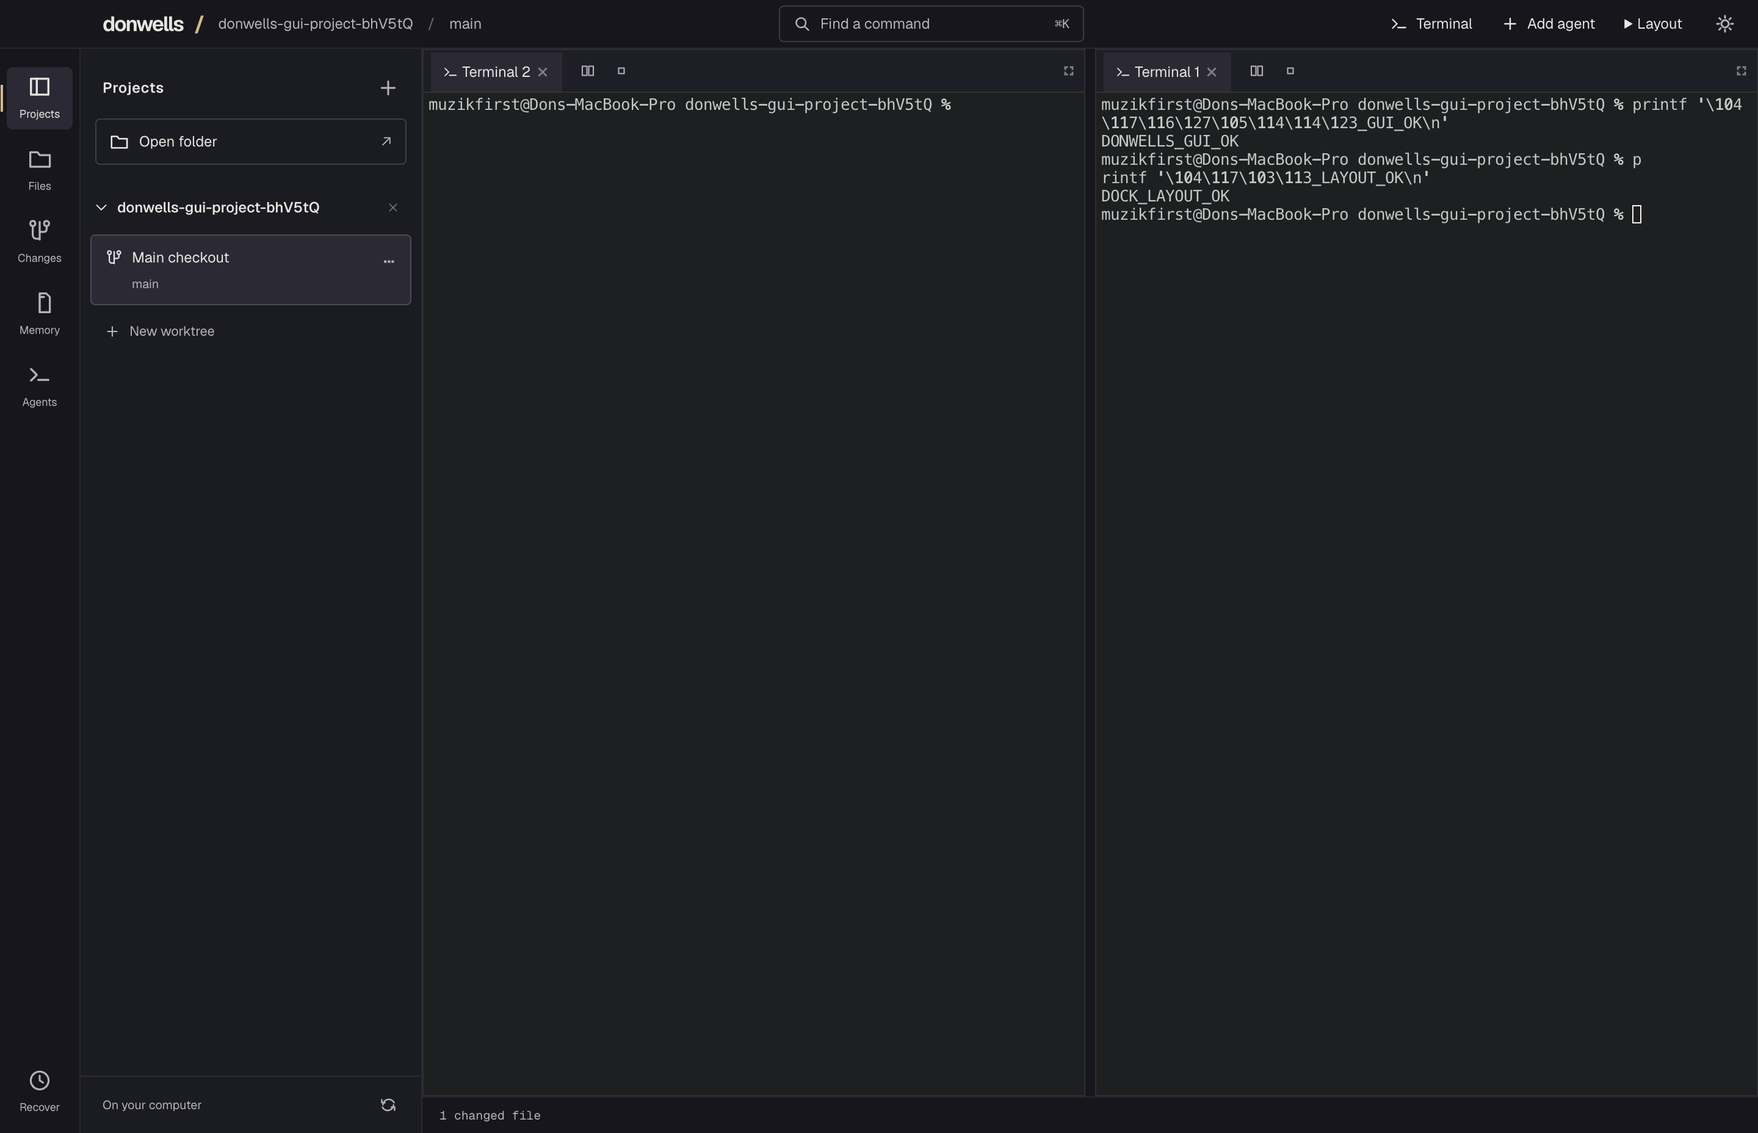
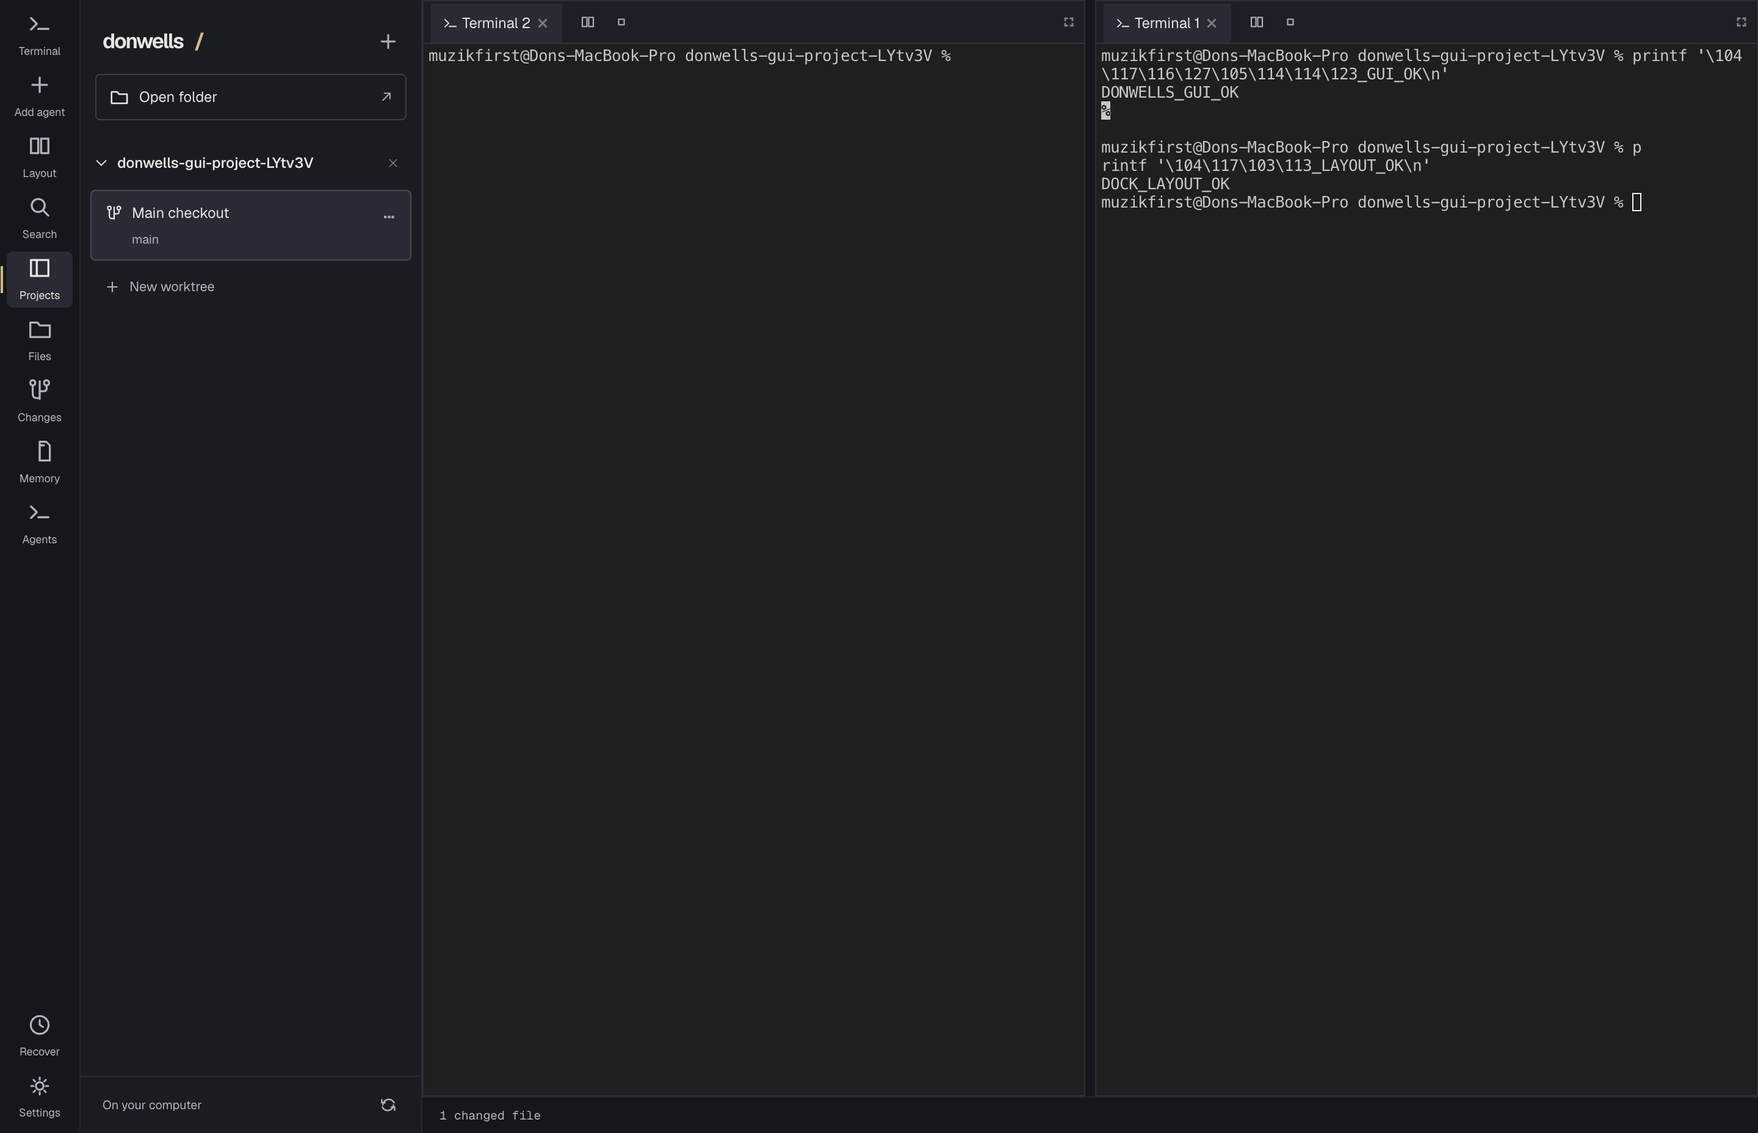
Move workspace tools into the side rail and remove the top toolbar

diff --git a/src/renderer/src/components/workspace-shell.css b/src/renderer/src/components/workspace-shell.css
@@ -1,20 +1,11 @@
 /* Rebuilt application chrome. Runtime ownership remains outside visual containers. */
-.workspace-masthead, .workspace-frame, .workspace-frame *, .workspace-masthead * { box-sizing: border-box; }
-.workspace-masthead { height: 40px; flex: 0 0 40px; display: flex; align-items: center; gap: 12px; padding: 0 12px; border-bottom: 1px solid var(--border); background: var(--background); -webkit-app-region: drag; }
-.workspace-masthead button, .workspace-masthead input, .workspace-masthead summary { -webkit-app-region: no-drag; }
-.workspace-window-controls { width: 60px; flex: 0 0 60px; }
 .workspace-wordmark { font-size: 17px; font-weight: 650; letter-spacing: -1px; padding: 4px 0; white-space: nowrap; }
 .workspace-wordmark span { color: var(--ring); padding-left: 6px; }
-.workspace-breadcrumb { display: flex; align-items: center; min-width: 0; gap: 12px; color: var(--muted-fg); font-size: 12px; }
-.workspace-breadcrumb span { overflow: hidden; text-overflow: ellipsis; white-space: nowrap; }
-.workspace-slash { opacity: .55; }
-.workspace-command-search.titlebar-search { margin-left: auto; width: auto; min-width: 180px; flex: 0 1 250px; height: 30px; font-size: 12px; border-radius: 4px; }
-.workspace-command-search kbd { margin-left: auto; font-size: 10px; }
 .workspace-icon-control { display: inline-flex; align-items: center; justify-content: center; width: 30px; height: 30px; flex: 0 0 30px; border-radius: 4px; color: var(--muted-fg); }
 .workspace-icon-control:hover { color: var(--foreground); background: var(--accent); }
 .workspace-frame { display: flex; flex: 1; min-width: 0; min-height: 0; }
-.workspace-rail { min-height: 0; overflow-y: auto; width: 66px; flex: 0 0 66px; display: flex; flex-direction: column; align-items: center; gap: 8px; padding: 15px 5px 8px; border-right: 1px solid var(--border); background: var(--background); }
-.workspace-rail > button { position: relative; display: flex; flex-direction: column; align-items: center; justify-content: center; gap: 6px; width: 54px; min-height: 51px; flex-shrink: 0; border-radius: 5px; font-size: 9px; color: var(--muted-fg); }
+.workspace-rail { min-height: 0; overflow-y: auto; width: 66px; flex: 0 0 66px; display: flex; flex-direction: column; align-items: center; gap: 4px; padding: 6px 5px; border-right: 1px solid var(--border); background: var(--background); }
+.workspace-rail > button { position: relative; display: flex; flex-direction: column; align-items: center; justify-content: center; gap: 6px; width: 54px; min-height: 46px; flex-shrink: 0; border-radius: 5px; font-size: 9px; color: var(--muted-fg); }
 .workspace-rail > button:hover:not(:disabled) { background: var(--card); color: var(--foreground); }
 .workspace-rail > button[aria-pressed='true'] { color: var(--foreground); background: var(--ws-accent); }
 .workspace-rail > button[aria-pressed='true']::before { content: ''; position: absolute; left: -5px; height: 22px; width: 2px; background: var(--ring); }
@@ -51,23 +42,19 @@
 .workspace-add-checkout:hover { color: var(--foreground); }
 .workspace-project-footer { display: flex; align-items: center; justify-content: space-between; border-top: 1px solid var(--border); padding: 8px 12px 8px 18px; font-size: 10px; color: var(--muted-fg); }
 .workspace-desk { flex: 1; min-height: 0; min-width: 0; display: flex; flex-direction: column; background: var(--background); }
-.workspace-context-actions { display: flex; align-items: center; gap: 8px; flex: 0 0 auto; }
-.workspace-action { display: inline-flex; align-items: center; justify-content: center; gap: 7px; padding: 5px 7px; border: 1px solid transparent; border-radius: 4px; font-size: 12px; }
-.workspace-action:hover { background: var(--accent); }
-.workspace-action-primary { color: var(--primary-fg); background: var(--primary); border-color: transparent; }
-.workspace-action-primary:hover { background: var(--foreground); }
-.workspace-attention { display: inline-flex; align-items: center; gap: 5px; font-size: 11px; color: var(--agent-question-text); }
 .workspace-surfaces { position: relative; display: flex; flex: 1; min-width: 0; min-height: 0; overflow: hidden; }
 .workspace-footing { min-height: 30px; padding: 6px 14px; display: flex; gap: 15px; align-items: center; border-top: 1px solid var(--border); font: 10px var(--font-mono); color: var(--muted-fg); }
 .workspace-footing button { display: inline-flex; gap: 5px; align-items: center; }
 .workspace-footing-spacer { flex: 1; }
-.workspace-frame button:focus-visible, .workspace-masthead button:focus-visible, .workspace-frame summary:focus-visible { outline: 2px solid var(--ring); outline-offset: -2px; }
-@media (max-width: 1000px) { .workspace-breadcrumb { display: none; } .workspace-projects { min-width: 175px; flex-basis: 190px; } .workspace-context { padding: 12px; gap: 8px; } .workspace-attention { max-width: 90px; } .workspace-agent-strip small { display: none; } }
-@media (max-width: 700px) { .workspace-masthead { gap: 10px; padding-right: 8px; } .workspace-command-search.titlebar-search { min-width: 30px; flex: 0 0 30px; justify-content: center; padding: 0; } .workspace-command-search span, .workspace-command-search kbd { display: none; } .workspace-projects { min-width: 145px; width: 175px !important; flex-basis: 175px !important; max-width: 30vw; } .workspace-rail { width: 56px; flex-basis: 56px; } .workspace-rail > button { width: 40px; } .workspace-project-resize { display: none; } .workspace-surfaces .right-sidebar { position: absolute; inset: 0 0 0 auto; width: min(100%, 320px) !important; min-width: 0; max-width: 100%; z-index: 30; } .workspace-context { flex-wrap: wrap; } .workspace-context-actions { flex-wrap: wrap; } .workspace-footing { flex-wrap: wrap; } }
-@media (prefers-reduced-motion: reduce) { .workspace-frame *, .workspace-masthead * { animation: none !important; transition: none !important; scroll-behavior: auto !important; } }
+.workspace-frame button:focus-visible, .workspace-frame summary:focus-visible { outline: 2px solid var(--ring); outline-offset: -2px; }
+@media (max-width: 1000px) { .workspace-projects { min-width: 175px; flex-basis: 190px; } }
+@media (max-width: 700px) { .workspace-projects { min-width: 145px; width: 175px !important; flex-basis: 175px !important; max-width: 30vw; } .workspace-rail { width: 56px; flex-basis: 56px; } .workspace-rail > button { width: 40px; } .workspace-project-resize { display: none; } .workspace-surfaces .right-sidebar { position: absolute; inset: 0 0 0 auto; width: min(100%, 320px) !important; min-width: 0; max-width: 100%; z-index: 30; } .workspace-footing { flex-wrap: wrap; } }
+@media (prefers-reduced-motion: reduce) { .workspace-frame * { animation: none !important; transition: none !important; scroll-behavior: auto !important; } }
 
 .workspace-project-resize { position: absolute; top: 0; bottom: 0; right: -3px; width: 6px; cursor: col-resize; z-index: 25; touch-action: none; }
 .workspace-project-resize:hover, .workspace-project-resize:focus-visible { background: var(--ring); }
 .workspace-checkout-actions form { padding: 6px; border-top: 1px solid var(--border); }
 .workspace-checkout-actions label { display: block; font-size: 10px; color: var(--muted-fg); }
 .workspace-checkout-actions input { width: 100%; margin-top: 6px; border: 1px solid var(--input); background: var(--background); color: var(--foreground); padding: 6px; }
+
+.workspace-frame, .workspace-frame * { box-sizing: border-box; }

diff --git a/src/renderer/src/components/WorkspaceShell.tsx b/src/renderer/src/components/WorkspaceShell.tsx
@@ -26,7 +26,6 @@ export function WorkspaceShell({ children }: { children: ReactNode }) {
   const scans = useAppStore(state => state.scans)
   const [openingFolder, setOpeningFolder] = useState(false)
   const selectedRepo = repos.find(repo => repo.worktrees.some(worktree => worktree.path === activePath))
-  const selectedWorktree = selectedRepo?.worktrees.find(worktree => worktree.path === activePath)
   const agents = Object.values(runningAgents).filter(agent => selectedRepo?.worktrees.some(worktree => worktree.path === agent.workspacePath))
   const waiting = agents.filter(agent => agentPresentation(agent).needsAttention)
   const order = orderedWorkspacePaths(repos, navigation)
@@ -51,34 +50,23 @@ export function WorkspaceShell({ children }: { children: ReactNode }) {
   }
 
   return <>
-    <header className="workspace-masthead">
-      {/Mac/.test(navigator.userAgent) && <div className="workspace-window-controls" />}
-      <button className="workspace-wordmark" onClick={() => state().setActiveRepo(null)} aria-label="Go to Projects">donwells<span aria-hidden="true"> /</span></button>
-      <div className="workspace-breadcrumb" aria-label="Current project">
-        <span>{selectedRepo ? pathBasename(selectedRepo.repo.path) : 'Projects'}</span>
-        {selectedWorktree && <><span className="workspace-slash" aria-hidden="true">/</span><span title={activePath ?? ''}>{navigation.renames[activePath!] ?? (selectedRepo?.repo.kind === 'folder' ? 'Local folder' : status?.branch || selectedWorktree.branch || 'Detached checkout')}</span></>}
-      </div>
-      <button aria-label="Find a command" className="workspace-command-search titlebar-search" onClick={() => state().setPaletteOpen(true)}><Icon name="search" size={14} /><span>Find a command</span><kbd>{formatAppShortcut(commandChord, appCommandPlatform(navigator.platform))}</kbd></button>
-      {activePath && <div className="workspace-context-actions">
-        {waiting.length > 0 && <button className="workspace-attention" onClick={() => void state().focusAgentSession(waiting[0]!.sessionId)}>{waiting.length} waiting</button>}
-        <button className="workspace-action" onClick={() => void state().openTerminal(activePath)}><Icon name="terminal" size={14} /><span>Terminal</span></button>
-        <button className="workspace-action" onClick={() => dispatchAppCommand('show-agents')}><Icon name="plus" size={14} /><span>Add agent</span></button>
-        <WorkspaceControls />
-      </div>}
-      <button className="workspace-icon-control" aria-label="Settings" onClick={() => dispatchAppCommand('settings')}><Icon name="gear" size={17} /></button>
-    </header>
     <div className="workspace-frame">
       <nav className="workspace-rail" aria-label="Workspace tools">
+        <button aria-label="Terminal" title="New terminal" disabled={!activePath} onClick={() => activePath && void state().openTerminal(activePath)}><Icon name="terminal" size={19} /><span>Terminal</span></button>
+        <button aria-label="Add agent" title="Add agent" disabled={!activePath} onClick={() => dispatchAppCommand('show-agents')}><Icon name="plus" size={19} /><span>Add agent</span></button>
+        <WorkspaceControls />
+        <button aria-label="Find a command" title={`Find a command (${formatAppShortcut(commandChord, appCommandPlatform(navigator.platform))})`} onClick={() => state().setPaletteOpen(true)}><Icon name="search" size={19} /><span>Search</span></button>
         <button aria-label="Projects" title="Projects" aria-pressed={sidebarOpen} onClick={() => state().setSidebarOpen(!sidebarOpen)}><Icon name="panelLeft" size={19} /><span>Projects</span></button>
         <button aria-label="Files" title="Files" disabled={!activePath} aria-pressed={rightOpen && rightTab === 'explorer' && !runsOpen} onClick={() => showTool('explorer')}><Icon name="dir" size={19} /><span>Files</span></button>
         <button aria-label="Changes" title="Changes" disabled={!activePath || selectedRepo?.repo.kind === 'folder'} aria-pressed={rightOpen && rightTab === 'git' && !runsOpen} onClick={() => showTool('git')}><Icon name="git" size={19} /><span>Changes</span></button>
         <button aria-label="Project memory" title="Project memory" disabled={!activePath} aria-pressed={rightOpen && rightTab === 'memory' && !runsOpen} onClick={() => showTool('memory')}><Icon name="file" size={19} /><span>Memory</span></button>
-        <button aria-label="Agent sessions" title="Agent sessions" aria-pressed={runsOpen} onClick={() => runsOpen ? state().setRunsOpen(false) : dispatchAppCommand('show-agents')}><Icon name="terminal" size={19} /><span>Agents</span></button>
+        <button aria-label="Agent sessions" title="Agent sessions" aria-pressed={runsOpen} onClick={() => runsOpen ? state().setRunsOpen(false) : dispatchAppCommand('show-agents')}><Icon name="terminal" size={19} /><span>Agents{waiting.length > 0 ? ` · ${waiting.length} waiting` : ''}</span></button>
         <div className="workspace-rail-spacer" />
         <button aria-label="Recover unsaved files" title="Recover unsaved files" aria-pressed={rightOpen && rightTab === 'recovery' && !runsOpen} onClick={() => showTool('recovery')}><Icon name="clock" size={18} /><span>Recover</span></button>
+        <button aria-label="Settings" title="Settings" onClick={() => dispatchAppCommand('settings')}><Icon name="gear" size={18} /><span>Settings</span></button>
       </nav>
       {sidebarOpen && <aside className="workspace-projects" aria-label="Projects and checkouts" style={{ width: sidebarWidth, flexBasis: sidebarWidth }}>
-        <header><h2>Projects</h2><button className="workspace-icon-control" aria-label="New project" onClick={() => openProjectSetup()}><Icon name="plus" size={17} /></button></header>
+        <header><button className="workspace-wordmark" aria-label="Go to Projects" onClick={() => state().setActiveRepo(null)}>donwells<span aria-hidden="true"> /</span></button><button className="workspace-icon-control" aria-label="New project" onClick={() => openProjectSetup()}><Icon name="plus" size={17} /></button></header>
         <button className="workspace-open-folder" onClick={() => void openFolder()} disabled={openingFolder}><Icon name="dir" size={15} />{openingFolder ? 'Opening…' : 'Open folder'}<span aria-hidden="true">↗</span></button>
         <div className="workspace-project-scroll">
           {repos.length === 0 && <p className="workspace-help">Open a folder to bring its terminals, agents and tools together.</p>}

diff --git a/src/renderer/src/components/Workbench.tsx b/src/renderer/src/components/Workbench.tsx
@@ -1,4 +1,4 @@
-import { useLayoutEffect, useRef, useState } from 'react'
+import { useId, useLayoutEffect, useRef, useState } from 'react'
 import { createPortal } from 'react-dom'
 import { Actions, DockLocation, Layout, Model, TabNode, TabSetNode, type Action } from 'flexlayout-react'
 import { useAppStore, isMarkdownFile, type Pane } from '../store'
@@ -109,21 +109,22 @@ function DockingSurface({ worktreePath, active }: { worktreePath: string; active
 }
 
 export function WorkspaceControls() {
+  const popoverId = useId()
   const activePath = useAppStore(state => state.activeWorktreePath)
   const panes = useAppStore(state => state.panes)
   const docking = useAppStore(state => state.docking)
   const [urlOpen, setUrlOpen] = useState(false)
   const [url, setUrl] = useState('')
   const hidden = activePath ? docking[activePath]?.hidden ?? [] : []
-  return <details className="workspace-layout-menu"><summary>Layout</summary><div className="workspace-layout-popover">
+  return <><button aria-label="Layout" title="Workspace layout" popoverTarget={popoverId} disabled={!activePath}><Icon name="columns" size={19} /><span>Layout</span></button><div id={popoverId} popover="auto" className="workspace-layout-popover">
     <div className="workspace-arrangements" aria-label="Workspace arrangement">
       <NavigationControls />
-      <div className="workspace-preset-buttons">{([['focus', 'Focus'], ['pair', 'Pair'], ['build', 'Build & preview'], ['review', 'Review']] as const).map(([preset, label]) => <button key={preset} onClick={event => { if (activePath) useAppStore.getState().arrangeWorkspace(activePath, preset as WorkspacePreset); event.currentTarget.closest('.workspace-layout-menu')?.removeAttribute('open') }}>{label}</button>)}</div>
+      <div className="workspace-preset-buttons">{([['focus', 'Focus'], ['pair', 'Pair'], ['build', 'Build & preview'], ['review', 'Review']] as const).map(([preset, label]) => <button key={preset} onClick={event => { if (activePath) useAppStore.getState().arrangeWorkspace(activePath, preset as WorkspacePreset); event.currentTarget.closest<HTMLElement>('.workspace-layout-popover')?.hidePopover() }}>{label}</button>)}</div>
       <button onClick={() => setUrlOpen(!urlOpen)} aria-expanded={urlOpen}><Icon name="globe" size={13} />Preview URL</button>
-      {hidden.length > 0 && <details className="workspace-hidden-views"><summary>Hidden ({hidden.length})</summary><div>{hidden.map(key => <button key={key} onClick={event => { if (activePath) useAppStore.getState().setActivePane(activePath, key); event.currentTarget.closest('.workspace-layout-menu')?.removeAttribute('open') }}>{workspacePaneLabel(panes[activePath!]?.find(pane => pane.key === key) ?? { key, kind: 'panel' })}</button>)}</div></details>}
+      {hidden.length > 0 && <details className="workspace-hidden-views"><summary>Hidden ({hidden.length})</summary><div>{hidden.map(key => <button key={key} onClick={event => { if (activePath) useAppStore.getState().setActivePane(activePath, key); event.currentTarget.closest<HTMLElement>('.workspace-layout-popover')?.hidePopover() }}>{workspacePaneLabel(panes[activePath!]?.find(pane => pane.key === key) ?? { key, kind: 'panel' })}</button>)}</div></details>}
     </div>
     {urlOpen && <form className="workspace-preview-address" onSubmit={event => { event.preventDefault(); if (activePath && url.trim()) { void useAppStore.getState().openBrowser(activePath, url.trim()); setUrlOpen(false) } }}><input aria-label="Preview URL" type="url" value={url} onChange={event => setUrl(event.target.value)} autoFocus required placeholder="http://localhost:3000" /><button type="submit">Open preview</button><button type="button" onClick={() => setUrlOpen(false)}>Cancel</button></form>}
-  </div></details>
+  </div></>
 }
 
 export function Workbench() {

diff --git a/src/renderer/src/components/workbench-dock.css b/src/renderer/src/components/workbench-dock.css
@@ -25,11 +25,8 @@
 .workspace-dock .flexlayout__tabset_tabbar_outer { background: var(--card); background-image: none; }
 .workspace-dock .flexlayout__tabset-selected, .workspace-dock .flexlayout__tabset-maximized { background-image: none; }
 
-.workspace-layout-menu { position: relative; font-size: 12px; }
-.workspace-layout-menu > summary { padding: 6px 8px; cursor: pointer; border-radius: 3px; }
-.workspace-layout-popover { position: absolute; right: 0; top: calc(100% + 6px); z-index: 100; width: 290px; max-width: calc(100vw - 24px); background: var(--popover); border: 1px solid var(--input); box-shadow: var(--shadow-floating); }
-.workspace-layout-menu summary:focus-visible { outline: 2px solid var(--ring); outline-offset: -2px; }
-.workspace-layout-menu .workspace-preset-buttons { flex-basis: 100%; }
-.workspace-layout-menu .workspace-hidden-views { flex-basis: 100%; }
-.workspace-layout-menu .workspace-hidden-views > div { position: static; width: 100%; border: 0; }
-.workspace-layout-menu .workspace-arrangements button { min-height: 30px; }
+.workspace-layout-popover { position: fixed; left: 66px; top: 8px; right: auto; bottom: auto; margin: 0; z-index: 100; width: 290px; max-width: calc(100vw - 78px); max-height: calc(100vh - 16px); overflow: auto; padding: 0; color: var(--foreground); background: var(--popover); border: 1px solid var(--input); box-shadow: var(--shadow-floating); }
+.workspace-layout-popover .workspace-preset-buttons, .workspace-layout-popover .workspace-hidden-views { flex-basis: 100%; }
+.workspace-layout-popover .workspace-hidden-views > div { position: static; width: 100%; border: 0; }
+.workspace-layout-popover .workspace-arrangements button { min-height: 30px; }
+.workspace-layout-popover button:focus-visible, .workspace-layout-popover summary:focus-visible { outline: 2px solid var(--ring); outline-offset: -2px; }

diff --git a/docs/architecture/component-decisions.md b/docs/architecture/component-decisions.md
@@ -114,7 +114,7 @@ The fixture now uses native Monaco input rather than a textarea. Its EditContext
 
 The main workspace now uses exact FlexLayout 0.10.8 with the existing xterm and Monaco resources. Its MIT license is included in `resources/THIRD_PARTY_NOTICES.txt`; React is an existing peer dependency. The superseded split renderer and titlebar-tab component are removed. Legacy split data/helpers remain for migration and old RPC compatibility, with a first-migration backup retained by the main state owner.
 
-User correction: terminals are the centerpiece. The repeated project header, arrangement toolbar and terminal title row have been removed. One 40px project bar holds launch/search/layout controls; terminal groups have their own tabs and inline split/stop actions. Layout choices and hidden views open on demand. The dark main surface remains #16161D.
+User correction: terminals are the centerpiece. The repeated project header, arrangement toolbar and terminal title row have been removed. The subsequent user correction removes the top project bar entirely: launch/search/layout/settings live in the side rail, project identity is in the project sidebar, and the terminal canvas begins with its tab groups. Layout choices and hidden views use a native popover so the rail can scroll at 200% without clipping the controls. The dark main surface remains #16161D.
 
 [Packaged acceptance](workspace-docking-acceptance.json) and [actual compact workspace](workspace-docking-acceptance.png) cover two real PTYs, hide/reopen, 100 arrangement changes, fresh typed output, 100 editor moves through the command dispatcher, unchanged editor DOM/content, undo/redo, deliberate app crash/relaunch, protected unsaved draft restoration, hidden layout persistence, unchanged terminal IDs, and docking Files/Changes/Memory/Recovery. Keyboard checks at 200% and owned-process cleanup pass. Full regression: 58 files, 351 tests. This is an unsigned local package, not an installed or released product.
 
